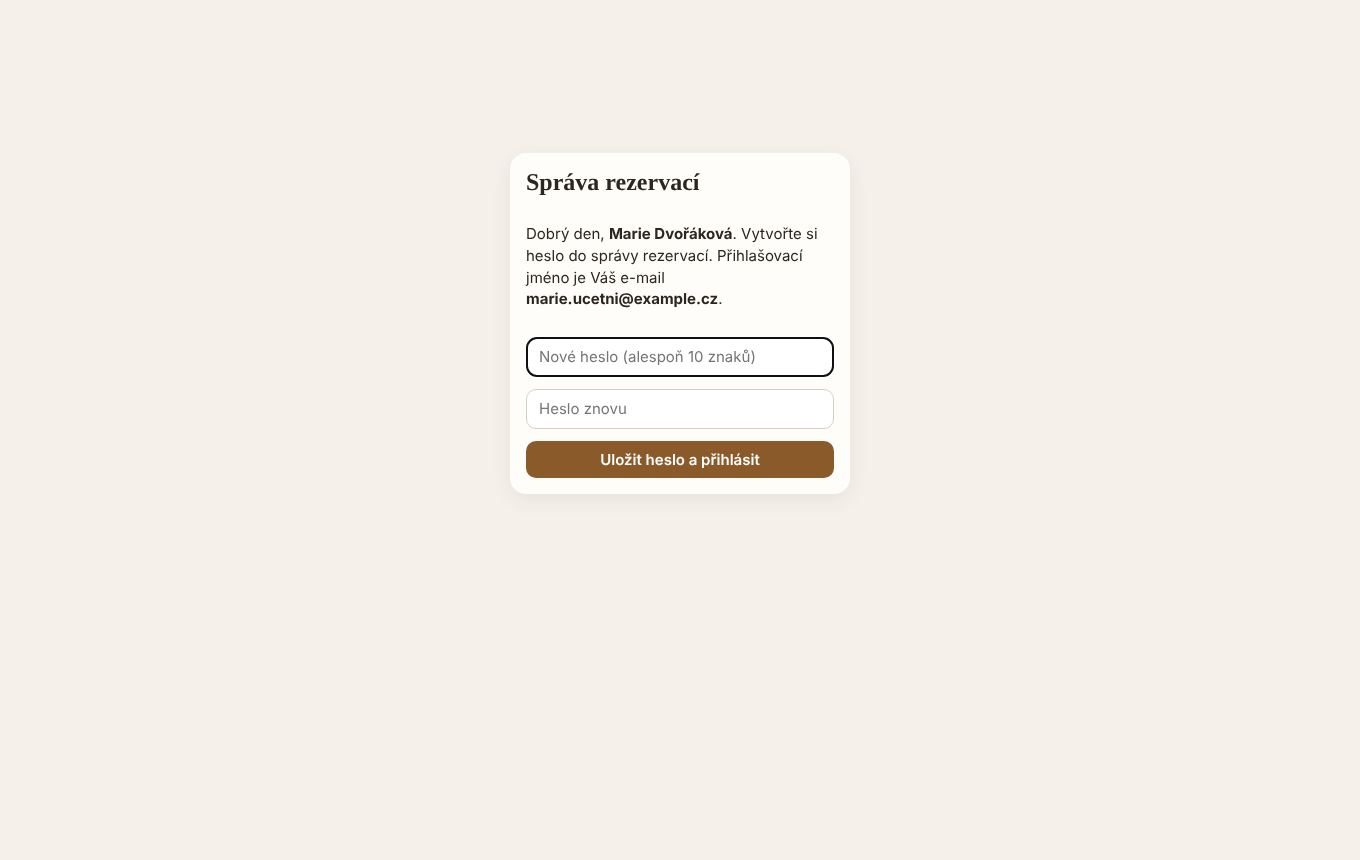
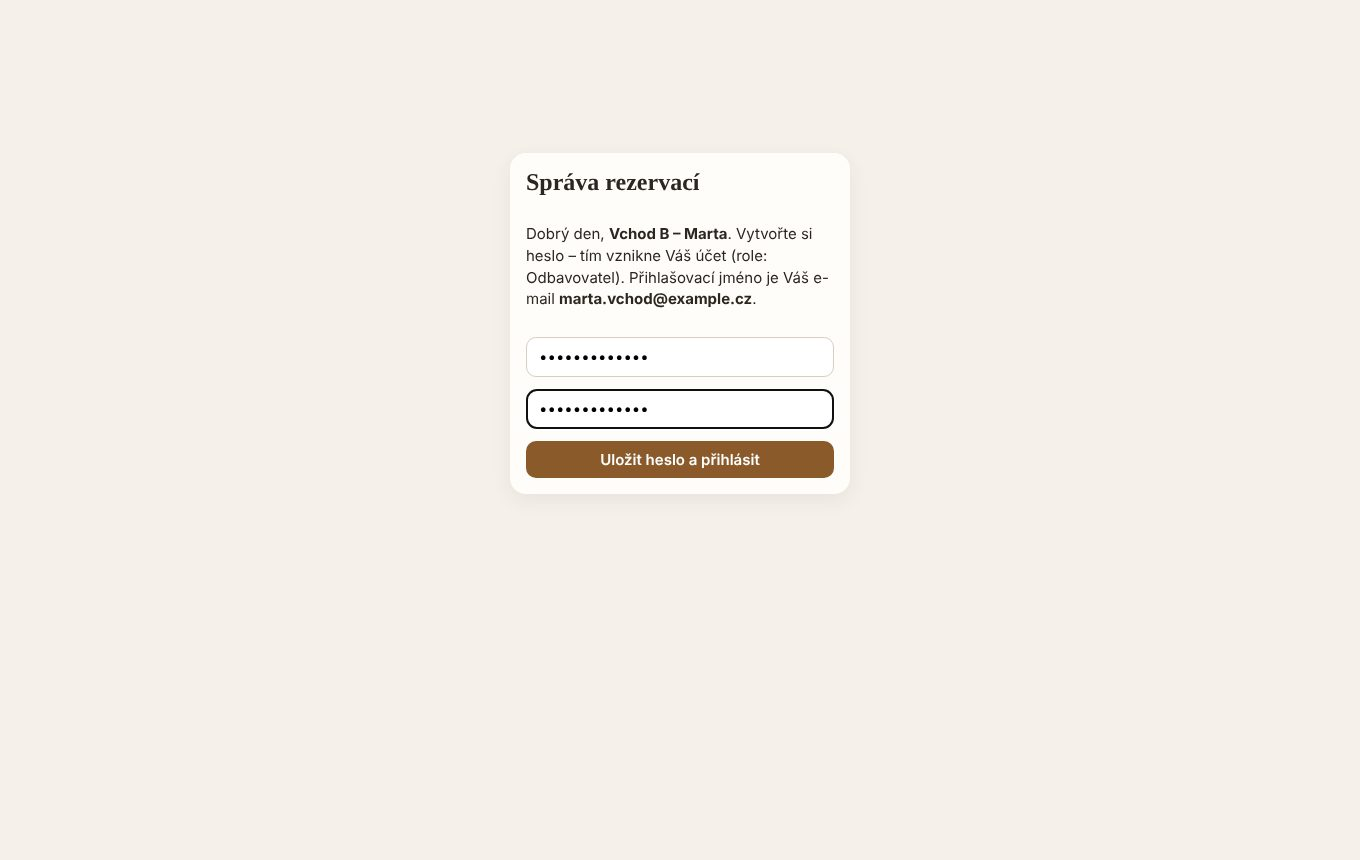
Overview: accounts and roles, no customer cancellation
Roles Správce / Účetní / Odbavovatel, the Uživatelé tab, invitation,
forgotten password and scanner sign-in screens; cancellation only by the
organizers, storno conditions removed; launch checklist with the deploy step.
Admin: role editor in the Uživatelé tab laid out compactly.

Claude-Session: https://claude.ai/code/session_01Tqukm7uUaAAmFan7fEuHMF

Changed region(s): [[0.3706, 0.2419, 0.6176, 0.3628], [0.3706, 0.393, 0.6176, 0.4837]]

diff --git a/docs/prehled/index.html b/docs/prehled/index.html
@@ -133,31 +133,37 @@ footer { color: var(--fg-2); font-size: .85rem; border-top: 1px solid var(--line
           <li>může použít slevový kód – jedno místo zdarma za každý kód</li>
           <li>dostane e-mailem vstupenky – na každou židli jednu, i k vytištění</li>
           <li>může na každou vstupenku napsat jméno toho, kdo na ní přijde</li>
-          <li>může zrušit celou rezervaci nebo jen některá místa</li>
+          <li>rezervaci sám zrušit nemůže – v případě potřeby se obrátí na pořadatele</li>
         </ul>
       </article>
       <article class="role">
-        <h3>Účetní / správce</h3>
-        <span class="where">správa · počítač · vlastní e-mail a heslo</span>
+        <h3>Správce</h3>
+        <span class="where">správa · počítač · vlastní účet (e-mail a heslo)</span>
         <ul>
-          <li>kontroluje platby ve výpisu a zapisuje, kolik skutečně přišlo</li>
-          <li>vrací peníze při zrušení</li>
-          <li>zakládá představení, storno podmínky a splatnost plateb</li>
+          <li>může vše – správu i odbavení</li>
+          <li>zakládá představení a splatnost plateb</li>
           <li>u každého představení určí, které židle jsou v prodeji a které záložní</li>
           <li>rozesílá slevové kódy na e-maily</li>
-          <li>ověřuje platby za vstupenky prodané u vchodu</li>
-          <li>posílá pozvánky pořadatelům u vchodu</li>
-          <li>zve další účetní – každý má vlastní přihlášení</li>
+          <li>zve další správce, účetní a odbavovatele zadáním jejich e-mailu a vidí, kdo pozvánku přijal</li>
+          <li>ruší rezervace nebo jednotlivá místa (zaplacená vrací v plné výši)</li>
         </ul>
       </article>
       <article class="role">
-        <h3>Pořadatel u vchodu</h3>
-        <span class="where">scanner · vlastní mobil s pozvánkou</span>
+        <h3>Účetní</h3>
+        <span class="where">správa · počítač · vidí jen rezervace a platby</span>
         <ul>
+          <li>kontroluje platby ve výpisu a zapisuje, kolik skutečně přišlo</li>
+          <li>vrací peníze a ověřuje platby za vstupenky prodané u vchodu</li>
+          <li>posílá vstupenky znovu, opravuje e-mail zákazníka</li>
+        </ul>
+      </article>
+      <article class="role">
+        <h3>Odbavovatel</h3>
+        <span class="where">scanner · vlastní mobil · jen odbavuje</span>
+        <ul>
+          <li>přihlásí se svým e-mailem a heslem (účet mu založí pozvánka od správce)</li>
           <li>načítá vstupenky kamerou telefonu – každou židli zvlášť</li>
           <li>prodává volná místa přímo u vchodu – zákazník zaplatí QR platbou</li>
-          <li>vidí jen představení, na která dostal pozvánku</li>
-          <li>při prvním otevření pozvánky si vytvoří heslo – přeposlaný odkaz bez hesla nefunguje</li>
           <li>odbavuje i při výpadku internetu (podle staženého seznamu)</li>
         </ul>
       </article>
@@ -188,8 +194,8 @@ footer { color: var(--fg-2); font-size: .85rem; border-top: 1px solid var(--line
         <figcaption><strong>4. Rezervace</strong>Na mobilu se vejde na jednu obrazovku: kolik míst je pro děti, slevový kód, cena, jméno a e-mail.</figcaption></figure>
       <figure><div class="phone"><img src="05-platba.jpg" alt="Stránka s QR platbou" width="585" height="1770" loading="lazy"></div>
         <figcaption><strong>5. Platba</strong>QR platba a všechny platební údaje ke zkopírování, pod nimi každé místo s druhem a cenou (místo za slevový kód zdarma). Stejné údaje přijdou e-mailem.</figcaption></figure>
-      <figure><div class="phone"><img src="06-vstupenka-storno.jpg" alt="Vstupenky a zrušení míst" width="585" height="2345" loading="lazy"></div>
-        <figcaption><strong>6. Vstupenky a zrušení</strong>Po zaplacení vstupenka pro každé místo (dvě vedle sebe) a tlačítko PDF k tisku. Zde lze zrušit celou rezervaci nebo jen některá místa.</figcaption></figure>
+      <figure><div class="phone"><img src="06-vstupenky.jpg" alt="Vstupenky" width="585" height="1790" loading="lazy"></div>
+        <figcaption><strong>6. Vstupenky</strong>Po zaplacení vstupenka pro každé místo (dvě vedle sebe) a tlačítko PDF k tisku. Rezervaci sám zrušit nelze – zrušit ji může jen pořadatel.</figcaption></figure>
       <figure><div class="phone"><img src="24-jmena.jpg" alt="Jména na vstupenkách" width="585" height="1266" loading="lazy"></div>
         <figcaption><strong>Jména na vstupenkách</strong>Odkaz „Jména na vstupenkách“ pod seznamem míst: přímo v seznamu se pod každé místo dá napsat, kdo na něm bude sedět. Nevyplněné vstupenky nesou jméno z rezervace. Jde to i před zaplacením a až do začátku představení – QR kódy, PDF i scanner pak ukazují nové jméno.</figcaption></figure>
       <figure><div class="phone"><img src="07-email.jpg" alt="E-mail s potvrzením platby a vstupenkami" width="630" height="2459" loading="lazy"></div>
@@ -198,12 +204,10 @@ footer { color: var(--fg-2); font-size: .85rem; border-top: 1px solid var(--line
         <figcaption><strong>Příloha vstupenky.pdf</strong>Stránka A4 k vytištění: vstupenky pod sebou (čtyři na stránku) s čárkovanou čarou na rozstříhání. Na každé QR kód, představení, část, řada a místo, dospělý / dítě, jméno a VS.</figcaption></figure>
     </div>
 
-    <div class="group-head"><h3>Pořadatel u vchodu</h3><span class="where">mobil · scanner</span></div>
+    <div class="group-head"><h3>Odbavovatel u vchodu</h3><span class="where">mobil · scanner</span></div>
     <div class="screens">
-      <figure><div class="phone"><img src="08-scanner-login.jpg" alt="Scanner bez pozvánky" width="585" height="1266" loading="lazy"></div>
-        <figcaption><strong>Přihlášení pozvánkou</strong>Scanner se otevře jen přes odkaz nebo QR kód od správce.</figcaption></figure>
-      <figure><div class="phone"><img src="27-scanner-pozvanka-heslo.jpg" alt="Vytvoření hesla k pozvánce" width="585" height="1266" loading="lazy"></div>
-        <figcaption><strong>Heslo k pozvánce</strong>Při prvním otevření odkazu si pořadatel vytvoří heslo (alespoň 8 znaků). Při dalším otevření, i na jiném mobilu, ho zadá. Kdo dostane jen přeposlaný odkaz, bez hesla se nepřihlásí. Zapomenuté heslo: správce vytvoří nový odkaz.</figcaption></figure>
+      <figure><div class="phone"><img src="08-scanner-login.jpg" alt="Přihlášení do scanneru" width="585" height="1266" loading="lazy"></div>
+        <figcaption><strong>Přihlášení</strong>E-mailem a heslem vlastního účtu (role Odbavovatel nebo Správce). Správce přihlášený ve správě otevře scanner z menu „Odbavení“ bez dalšího přihlašování. Odkaz „Zapomněl jsem heslo“.</figcaption></figure>
       <figure><div class="phone"><img src="09-scanner-mimo-cas.jpg" alt="Varování mimo čas odbavení" width="585" height="1266" loading="lazy"></div>
         <figcaption><strong>Hlídání času</strong>Mimo hodinu před a po začátku představení scanner varuje. Odbavit lze jen po potvrzení.</figcaption></figure>
       <figure><div class="phone"><img src="10-scanner-platna.jpg" alt="Platná vstupenka" width="585" height="1266" loading="lazy"></div>
@@ -218,22 +222,22 @@ footer { color: var(--fg-2); font-size: .85rem; border-top: 1px solid var(--line
         <figcaption><strong>Platba u vchodu</strong>Zákazník naskenuje QR platbu v bankovní aplikaci a ukáže odeslanou platbu. Pořadatel klepne „Zaplaceno – vpustit“ – místa jsou rovnou odbavená.</figcaption></figure>
     </div>
 
-    <div class="group-head"><h3>Účetní / správce</h3><span class="where">počítač · správa</span></div>
+    <div class="group-head"><h3>Správce a účetní</h3><span class="where">počítač · správa</span></div>
     <div class="screens-wide">
       <figure><div class="desktop"><img src="13-admin-rezervace.jpg" alt="Seznam rezervací" width="1360" height="860" loading="lazy"></div>
         <figcaption><strong>Rezervace</strong>Obsazenost představení, vyhledávání podle VS nebo jména, zápis přijaté částky, zrušení, vracení peněz, PDF vstupenek. U každého místa je vidět dětská vstupenka, slevový kód a zda už prošlo. Červená karta upozorní na prodeje u vchodu, u kterých je třeba ověřit, že platba dorazila.</figcaption></figure>
       <figure><div class="desktop"><img src="21-admin-kody.jpg" alt="Slevové kódy" width="1360" height="860" loading="lazy"></div>
         <figcaption><strong>Slevové kódy</strong>Zadáte e-maily, každý dostane jeden kód (kdo má dostat víc, zadejte ho víckrát). Je vidět, který kód byl použit a na jaké místo. Nepoužitý kód lze poslat znovu nebo zrušit.</figcaption></figure>
-      <figure><div class="desktop"><img src="15-admin-poradatele.jpg" alt="Pozvánky pořadatelů" width="1360" height="860" loading="lazy"></div>
-        <figcaption><strong>Pořadatelé</strong>Pozvánky pro mobily u vchodu, vždy jen na vybraná představení. Stav ukazuje, zda si pořadatel už vytvořil heslo („Čeká na heslo“ / „Aktivní“). Přístup lze kdykoli zrušit, nový odkaz zruší i heslo.</figcaption></figure>
       <figure><div class="desktop"><img src="18-admin-konflikty.jpg" alt="Konflikty z odbavení bez internetu" width="1360" height="860" loading="lazy"></div>
-        <figcaption><strong>Konflikty z odbavení bez internetu</strong>Co scanner bez spojení pustil, ale už to neplatilo – typicky stejná vstupenka na dvou mobilech. Počet svítí červeně v záložce Pořadatelé.</figcaption></figure>
-      <figure><div class="desktop"><img src="19-admin-ucetni.jpg" alt="Účetní a jejich pozvánky" width="1360" height="860" loading="lazy"></div>
-        <figcaption><strong>Účetní</strong>Pozvání další účetní e-mailem, stav pozvánek, nové heslo při zapomenutí, vypnutí účtu.</figcaption></figure>
+        <figcaption><strong>Konflikty z odbavení bez internetu</strong>Co scanner bez spojení pustil, ale už to neplatilo – typicky stejná vstupenka na dvou mobilech. Počet svítí červeně v záložce Uživatelé.</figcaption></figure>
+      <figure><div class="desktop"><img src="19-admin-uzivatele.jpg" alt="Uživatelé a jejich role" width="1360" height="1603" loading="lazy"></div>
+        <figcaption><strong>Uživatelé</strong>Jen pro správce. Pozvání dalšího správce, účetní nebo odbavovatele zadáním jména, e-mailu a rolí (může jich mít víc). U každého je vidět, zda pozvánku přijal; role lze změnit, účet vypnout, nepřijatou pozvánku poslat znovu.</figcaption></figure>
       <figure><div class="desktop"><img src="20-pozvanka-heslo.jpg" alt="Vytvoření hesla z pozvánky" width="1360" height="860" loading="lazy"></div>
-        <figcaption><strong>Pozvánka pro účetní</strong>Odkaz z e-mailu: pozvaná si vytvoří heslo, přihlašovacím jménem je její e-mail.</figcaption></figure>
+        <figcaption><strong>Přijetí pozvánky</strong>Odkaz z e-mailu: pozvaný si vytvoří heslo – tím vznikne jeho účet. Přihlašovacím jménem je e-mail. Odbavovatel pak rovnou skončí ve scanneru.</figcaption></figure>
+      <figure><div class="desktop"><img src="28-zapomenute-heslo.jpg" alt="Zapomenuté heslo" width="1360" height="860" loading="lazy"></div>
+        <figcaption><strong>Zapomenuté heslo</strong>Odkaz na přihlašovací stránce. Na zadaný e-mail přijde odkaz na nové heslo (platí 60 minut) – pokud k němu existuje účet; stránka to neprozradí.</figcaption></figure>
       <figure><div class="desktop"><img src="16-admin-terminy.jpg" alt="Nastavení představení" width="1360" height="860" loading="lazy"></div>
-        <figcaption><strong>Splatnost, představení a storno</strong>Nahoře splatnost plateb: od zvoleného data a hodiny mají nové rezervace kratší (nebo delší) lhůtu na zaplacení. Pod tím datum a čas každého představení a jeho storno poplatky – po první rezervaci jsou zamčené.</figcaption></figure>
+        <figcaption><strong>Splatnost a představení</strong>Nahoře splatnost plateb: od zvoleného data a hodiny mají nové rezervace kratší (nebo delší) lhůtu na zaplacení. Pod tím datum a čas každého představení – po první rezervaci je začátek zamčený.</figcaption></figure>
       <figure><div class="desktop"><img src="25-admin-planek.jpg" alt="Plánek: židle v prodeji a záložní" width="1360" height="1766" loading="lazy"></div>
         <figcaption><strong>Plánek – v prodeji, nebo záložní</strong>Pro vybrané představení klikem přepnete kteroukoli židli mezi „v prodeji“ (zelená) a „záložní“ (šedá čárkovaná) – u každé části i najednou („vše v prodeji“ / „vše záložní“). Obsazené židle (červené) přepnout nejdou. „Uložit plánek“ změnu uloží, „Výchozí rozložení“ vrátí záložní řady na balkoně. Nahoře počet míst v prodeji, záložních a obsazených.</figcaption></figure>
     </div>
@@ -251,15 +255,15 @@ footer { color: var(--fg-2); font-size: .85rem; border-top: 1px solid var(--line
       <div class="rule"><strong>Kdo nezaplatí, přijde o místa</strong><p>Na platbu jsou 3 dny (nejpozději do začátku představení). Správce může od zvoleného data a hodiny nastavit jinou splatnost v hodinách – platí pro rezervace vytvořené od té doby. Den předem přijde připomínka. Když platba nedorazí ani 2 dny po splatnosti, místa se uvolní.</p></div>
       <div class="rule"><strong>Platby potvrzuje člověk</strong><p>Aplikace není napojená na banku. Účetní páruje platby podle variabilního symbolu a zapíše, kolik skutečně přišlo. Vstupenka proto přijde až po potvrzení.</p></div>
       <div class="rule"><strong>Málo nebo moc peněz</strong><p>Když přijde méně, návštěvník dostane e-mail, kolik má doplatit, a vstupenka přijde po doplacení. Přeplatek se vrací na účet, ze kterého platba přišla.</p></div>
-      <div class="rule"><strong>Zrušení a storno</strong><p>Návštěvník ruší sám přes odkaz z e-mailu, celou rezervaci i jednotlivá místa. Poplatek podle storno podmínek představení, zbytek se do 14 dnů vrátí na účet, ze kterého platba přišla.</p></div>
-      <div class="rule"><strong>Ochrana před zneužitím</strong><p>Jedna židle jde prodat jen jednou. Z jednoho zařízení lze rezervovat nejvýše 40 míst za hodinu a 80 za den, aby jeden člověk nemohl zablokovat celé představení. Dvojí zapsání stejné platby (dvojklik) se nezapíše. Pozvánka pro pořadatele platí jen s jeho heslem.</p></div>
+      <div class="rule"><strong>Zrušení jen přes pořadatele</strong><p>Návštěvník rezervaci sám zrušit nemůže. Zrušit celou rezervaci nebo jednotlivá místa může jen správce – zaplacená místa se vracejí v plné výši (bez storno poplatku) do 14 dnů na účet, ze kterého platba přišla.</p></div>
+      <div class="rule"><strong>Ochrana před zneužitím</strong><p>Jedna židle jde prodat jen jednou. Z jednoho zařízení lze rezervovat nejvýše 40 míst za hodinu a 80 za den, aby jeden člověk nemohl zablokovat celé představení. Dvojí zapsání stejné platby (dvojklik) se nezapíše. Každý pracuje pod vlastním účtem a vidí jen to, co mu dovoluje jeho role.</p></div>
       <div class="rule"><strong>Vstupenku nejde padělat</strong><p>QR kód je elektronicky podepsaný. Pořadatel vždy vidí aktuální stav: zaplaceno, zrušeno (i jednotlivé zrušené místo) nebo už prošel.</p></div>
       <div class="rule"><strong>Vstupenka platí jen na své představení</strong><p>Kdo přijde jiný den, scanner ukáže „Jiný termín“ a dotyčného nepustí jako odbaveného.</p></div>
       <div class="rule"><strong>Bez internetu u vchodu</strong><p>Scanner si s internetem průběžně stahuje seznam vstupenek. Když spojení vypadne, ověřuje podle něj (pozná i zrušené a už použité vstupenky) a odbavení odešle, až se spojení vrátí. Mobily bez spojení o sobě navzájem nevědí – kopii stejné vstupenky na dvou vchodech zjistí systém až dodatečně.</p></div>
       <div class="rule"><strong>Odbavení jen v pravý čas</strong><p>Od hodiny před do hodiny po začátku představení. Jindy scanner varuje, aby se omylem neodbavovalo jiné představení.</p></div>
-      <div class="rule"><strong>Čas a storno podmínky se nemění</strong><p>Jakmile má představení první rezervaci, nelze už změnit jeho začátek ani storno podmínky – platí to, za co si lidé místa koupili.</p></div>
+      <div class="rule"><strong>Čas představení se nemění</strong><p>Jakmile má představení první rezervaci, nelze už změnit jeho začátek – platí čas, na který si lidé místa koupili.</p></div>
       <div class="rule"><strong>Platba, která už nejde použít</strong><p>Peníze po propadnutí rezervace ji obnoví, pokud představení ještě nezačalo a místa jsou volná. Jinak – a také u zrušené rezervace nebo platby poslané dvakrát – se peníze vrací na účet plátce a návštěvník dostane e-mail.</p></div>
-      <div class="rule"><strong>Každá účetní má vlastní přihlášení</strong><p>Správce pozve účetní e-mailem, ta si na odkazu (platí 7 dní) vytvoří heslo, přihlašuje se svým e-mailem. Kdo heslo zapomene, dostane nový odkaz. Účet lze kdykoli vypnout – dotyčná je hned odhlášená. Všichni správci mají stejná práva.</p></div>
+      <div class="rule"><strong>Účty a role</strong><p>Prvního správce založí jednorázově technik při spuštění. Další správce, účetní a odbavovatele zve správce e-mailem; účet vznikne, až si pozvaný na odkazu (platí 7 dní) vytvoří heslo. Správce může vše, účetní vidí jen rezervace a platby, odbavovatel jen odbavuje; kdo má víc rolí, vidí v menu všechny jejich možnosti. Zapomenuté heslo si každý obnoví sám. Vypnutý účet, odebraná role nebo nové heslo odhlásí i mobil se scannerem.</p></div>
       <div class="rule"><strong>Ochrana proti robotům</strong><p>Formulář chrání neviditelná kontrola – návštěvník nic nevyplňuje ani nevybírá obrázky, prohlížeč se ověří sám na pozadí.</p></div>
       <div class="rule"><strong>Ochrana osobních údajů</strong><p>Ukládá se jen jméno a e-mail. 30 dní po posledním představení se automaticky smažou – u rezervací, kde se ještě vrací peníze, až po jejich vrácení.</p></div>
     </div>
@@ -269,16 +273,16 @@ footer { color: var(--fg-2); font-size: .85rem; border-top: 1px solid var(--line
     <h2 id="launch">Co je potřeba před spuštěním</h2>
     <ul class="checklist">
       <li>Bankovní účet pro platby a specifický symbol.</li>
-      <li>Hesla a klíč do konfigurace (config.local.php): hlavní heslo správce alespoň 12 znaků a tajný klíč pro podpis vstupenek (alespoň 32 náhodných znaků). Se vzorovými hodnotami („change-me“) aplikace nefunguje.</li>
+      <li>Klíče do konfigurace (config.local.php): tajný klíč pro podpis vstupenek a jednorázový klíč pro založení prvního správce (oba alespoň 32 náhodných znaků).</li>
+      <li>Kdo bude první správce (e-mail) – technik ho založí jednorázově při spuštění, další uživatele už pak zve správce sám.</li>
       <li>Přístup k odesílání e-mailů (SMTP): server, port, e-mailová adresa odesílatele a její heslo – zapisují se do souboru config.local.php na serveru (tam je i celé ostatní nastavení).</li>
       <li>Kontaktní e-mail a telefon pořadatelů – zobrazí se na webu a v každém e-mailu, odpovědi na e-maily půjdou na tento kontakt.</li>
-      <li>Data a časy všech představení a jejich storno podmínky – musí být hotové před spuštěním prodeje, po první rezervaci je už nelze změnit.</li>
+      <li>Data a časy všech představení – musí být hotové před spuštěním prodeje, po první rezervaci už začátek nelze změnit.</li>
       <li>Adresa místa konání a přibližná délka představení – objeví se v události v kalendáři.</li>
       <li>Seznam e-mailů, kam poslat slevové kódy (místo dřívějších VIP hostů).</li>
       <li>Ověřit plánek v kostele: počet míst v každé řadě (celkem 301 – dole 195, na balkoně 106, z toho 34 záložních); lavice na balkoně jsou rozdělené vlevo na místa 1–5 a 6–12, vpravo 1–6 a 7–11; záložní řady vlevo za lavicí na 1–5 a 6–11.</li>
       <li>Od kdy zkrátit splatnost plateb (např. poslední týden před představením 24 hodin).</li>
-      <li>Jména pořadatelů u vchodu a na která představení přijdou (dostanou pozvánku).</li>
-      <li>Kdo bude potvrzovat platby a vracet peníze – jména a e-maily účetních, kterým přijde pozvánka. Po jejich pozvání lze hlavní heslo z konfigurace smazat.</li>
+      <li>Jména a e-maily všech uživatelů a jejich role: kdo bude potvrzovat platby a vracet peníze (účetní), kdo bude odbavovat u vchodu (odbavovatelé) a kdo bude spravovat (správci). Každému přijde pozvánka.</li>
       <li>Vyzkoušet signál a Wi-Fi přímo v kostele. Před představením otevřít scanner na každém mobilu s internetem – stáhne si seznam vstupenek pro případ výpadku.</li>
       <li>Zkušební rezervace „naostro“: rezervace → platba → vstupenky → vytištění PDF → načtení u vchodu; a zkušební prodej u vchodu s QR platbou.</li>
     </ul>

diff --git a/api/admin.php b/api/admin.php
@@ -375,7 +375,9 @@ $statusLabels = ['pending' => 'Čeká na platbu', 'paid' => 'Zaplaceno', 'expire
   .invite-new h2 { margin:0 0 4px; font:600 1.15rem Georgia, serif; }
   .invite-new > div { display:flex; flex-direction:column; gap:8px; flex:1 1 320px; min-width:0; }
   .invite-link { width:100%; font-family:ui-monospace, monospace; font-size:.85rem; }
-  .invite-edit { display:flex; flex-direction:column; gap:8px; margin-top:8px; min-width:280px; }
+  .roles-edit { display:flex; flex-direction:column; align-items:flex-start; gap:6px; margin-top:6px; }
+  .roles-edit .checks { flex-direction:column; gap:4px; }
+  .edit-email .check input { width:auto; }
   .card.attention { background:#f6cdc6; color:#7d2117; text-decoration:none; }
   .settings { max-width:640px; display:flex; flex-direction:column; gap:12px; }
   .settings h2 { margin:8px 0 0; font:600 1.15rem Georgia, serif; }
@@ -758,7 +760,7 @@ $statusLabels = ['pending' => 'Čeká na platbu', 'paid' => 'Zaplaceno', 'expire
           <td>
             <?= $h(implode(', ', array_map(static fn ($r) => USER_ROLES[$r], user_roles($u)))) ?>
             <details class="edit-email"><summary>změnit</summary>
-              <form method="post" class="invite-edit">
+              <form method="post" class="roles-edit">
                 <input type="hidden" name="csrf" value="<?= $h($_SESSION['csrf']) ?>">
                 <input type="hidden" name="id" value="<?= (int) $u['id'] ?>">
                 <div class="checks"><?= $roleChecks(user_roles($u)) ?></div>
